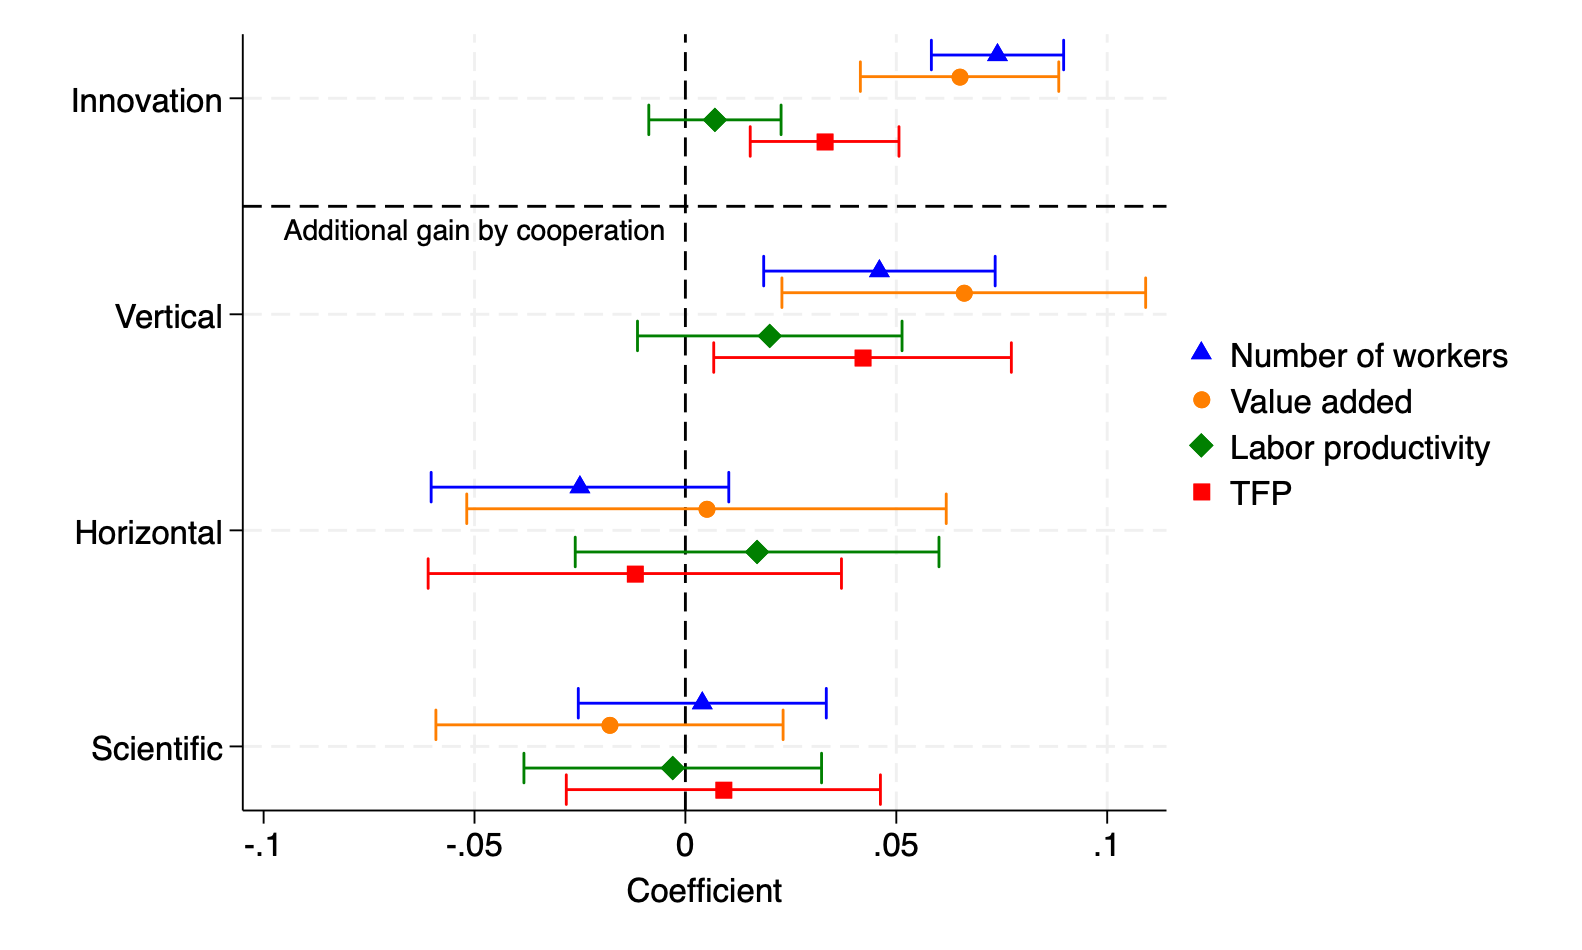
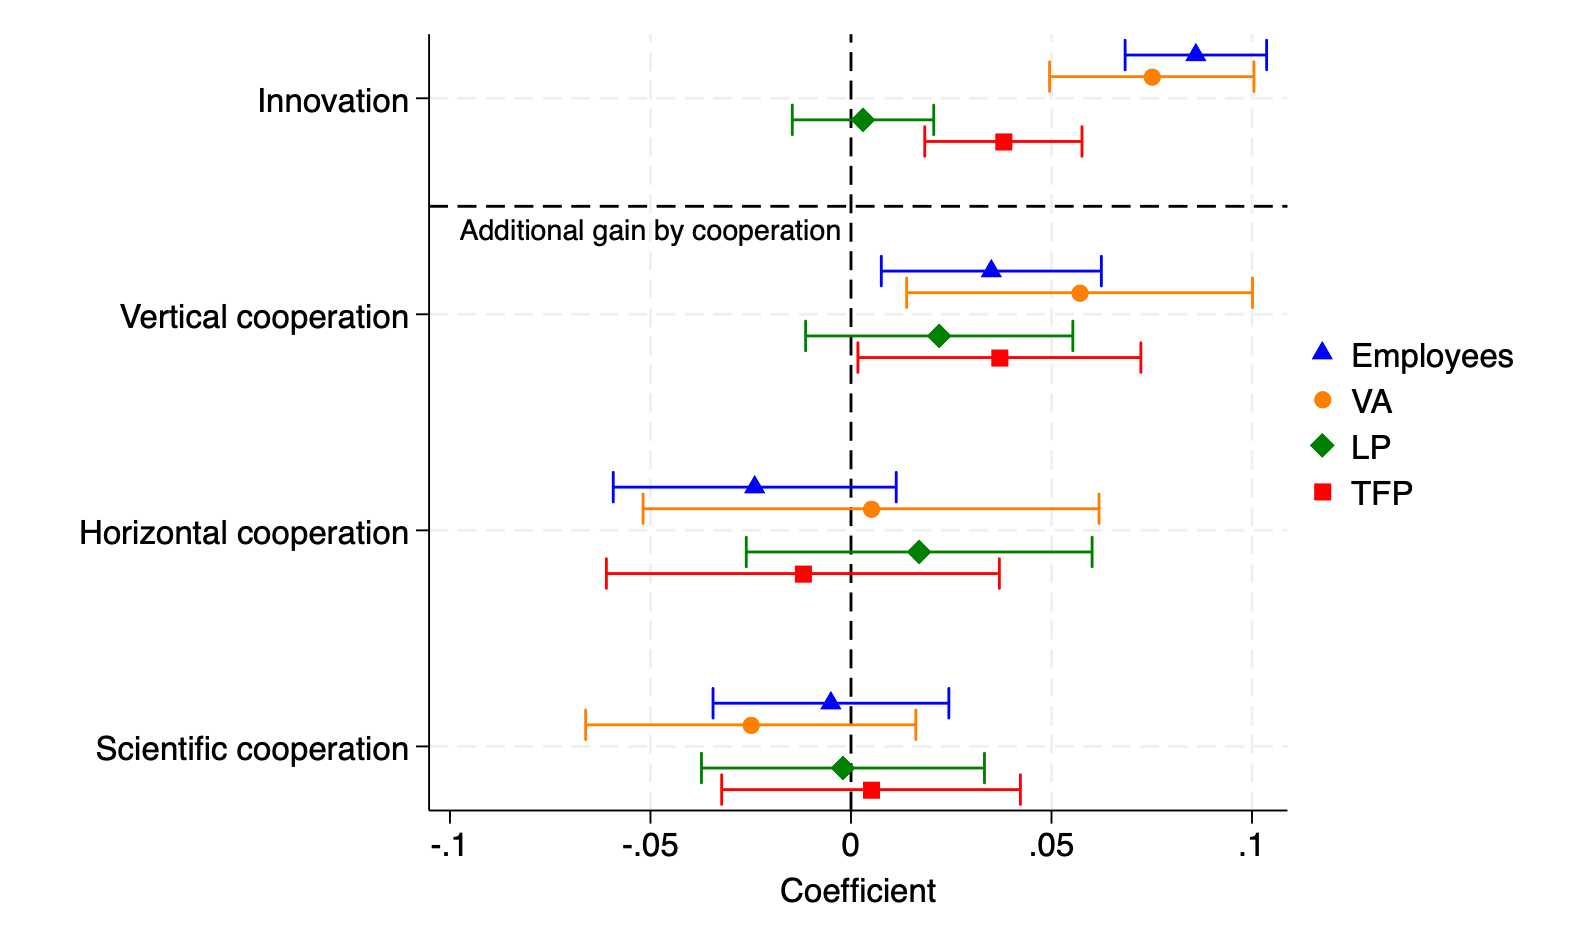
update res paper summary

diff --git a/index.html b/index.html
@@ -58,7 +58,7 @@
       </div>
       <div class="col-md-6">
         <p>
-          This paper examines how cooperation with different partners in innovation activities shapes firm employment and performance. Using panel data from the Hungarian Community Innovation Survey, I show that vertical cooperation increases the gain from innovation. Following an innovation, firms that engage in vertical cooperation in their innovation activity see employment rise by 3.5%, value added by 5.7%, and total factor productivity by 3.8%, on top of the direct impact of the innovation itself. Cooperation with other partner types has no significant direct effect on employment or performance.
+          This paper examines how cooperation with different partners in innovation activities shapes firm employment and performance. Using panel data from the Hungarian Community Innovation Survey linked to administrative firm-level financial data, I show that vertical cooperation increases the gain from innovation. Following an innovation, firms that engage in vertical cooperation in their innovation activity are associated with 3.5% higher employment, 5.7% higher value added, and 3.7% higher total factor productivity, on top of the estimated effect of innovation itself. Cooperation with other partner types has no significant direct effect on employment or performance.
         </p>
       </div>
     </div>